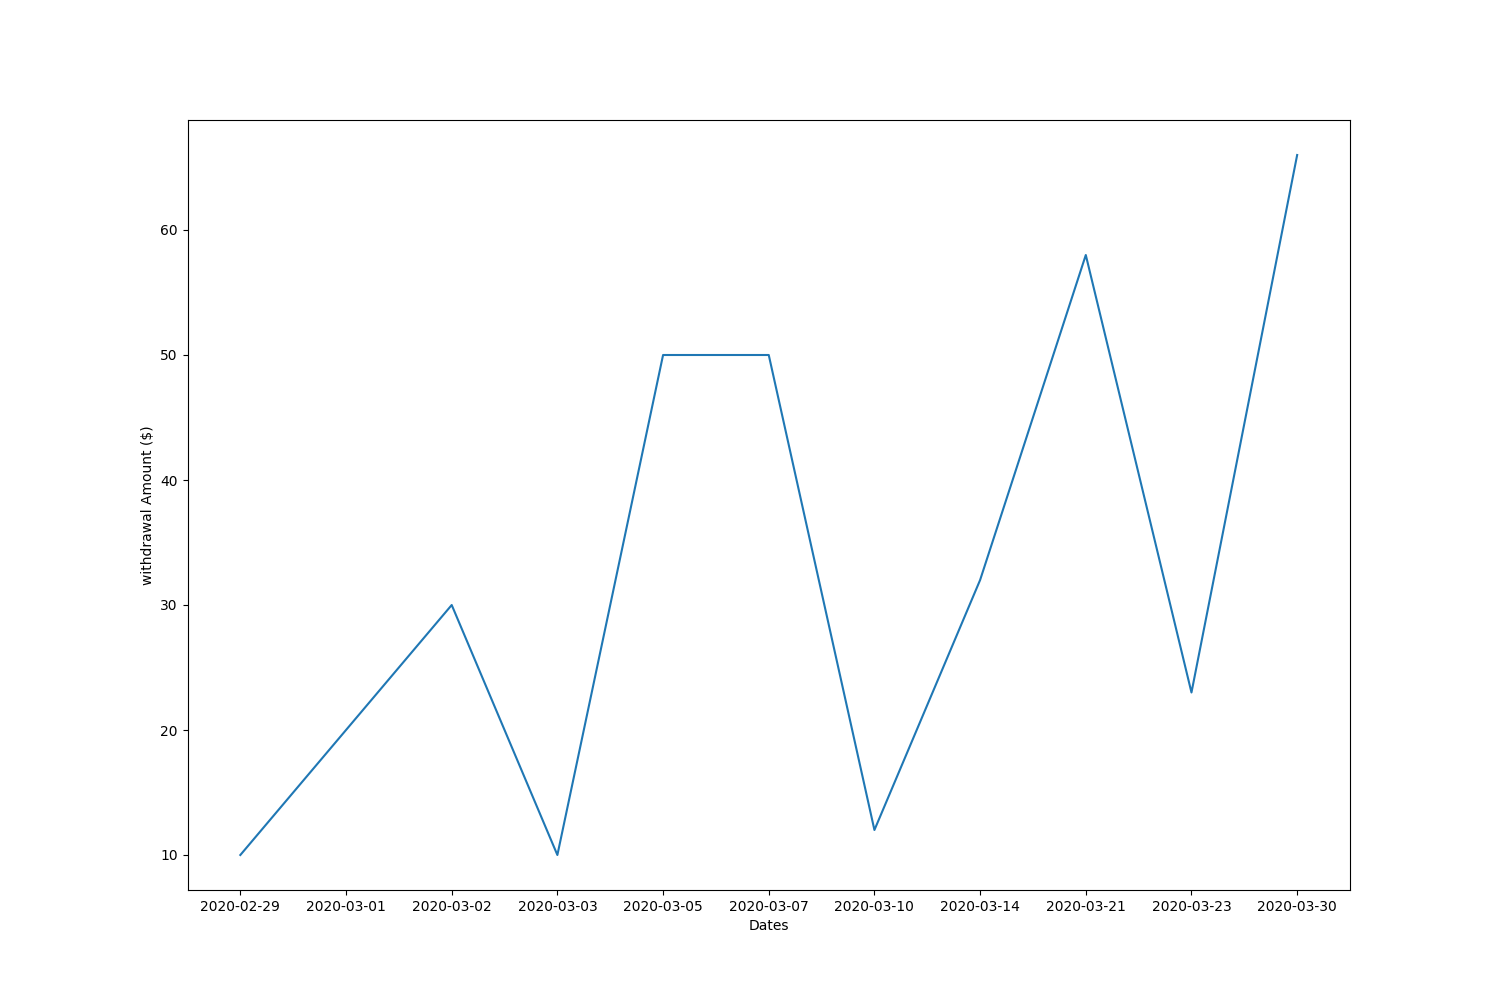
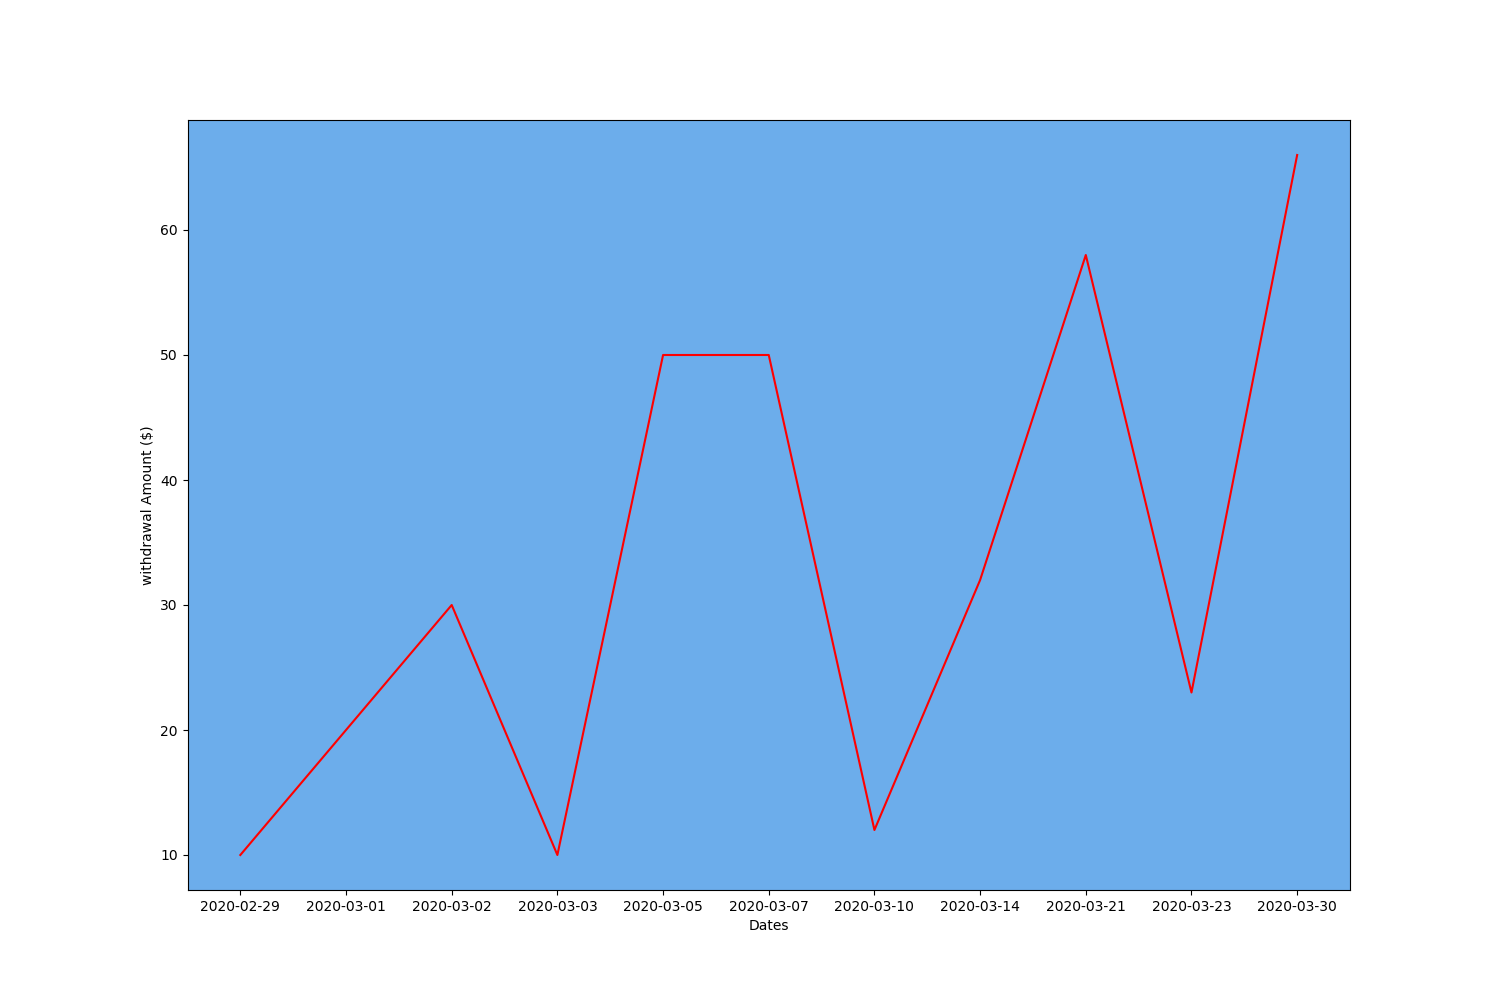
graph change

diff --git a/ReportingService.py b/ReportingService.py
@@ -56,7 +56,10 @@ class ReportingService:
             amounts.append(element['amount'])
             dates.append(element['transaction_date'])
         plt.figure(figsize=(15,10))
-        plt.plot(dates,amounts)
+        ax = plt.axes()
+        ax.set_facecolor("#bed1bc")
+        ax.set_alpha(0.5)
+        plt.plot(dates,amounts, color = '#042b00')
 
         plt.xlabel('Dates')
         plt.ylabel(type+' Amount ($)')
@@ -72,7 +75,10 @@ class ReportingService:
             amounts.append(element[0])
             dates.append(element[1])
         plt.figure(figsize=(15,10))
-        plt.plot(dates,amounts)
+        ax = plt.axes()
+        ax.set_facecolor("#bed1bc")
+        ax.set_alpha(0.5)
+        plt.plot(dates,amounts, color = '#042b00')
         plt.xlabel('Dates')
         plt.ylabel('Balance Amount ($)')
         plt.savefig('static/balance_' +user_id+'.png')
